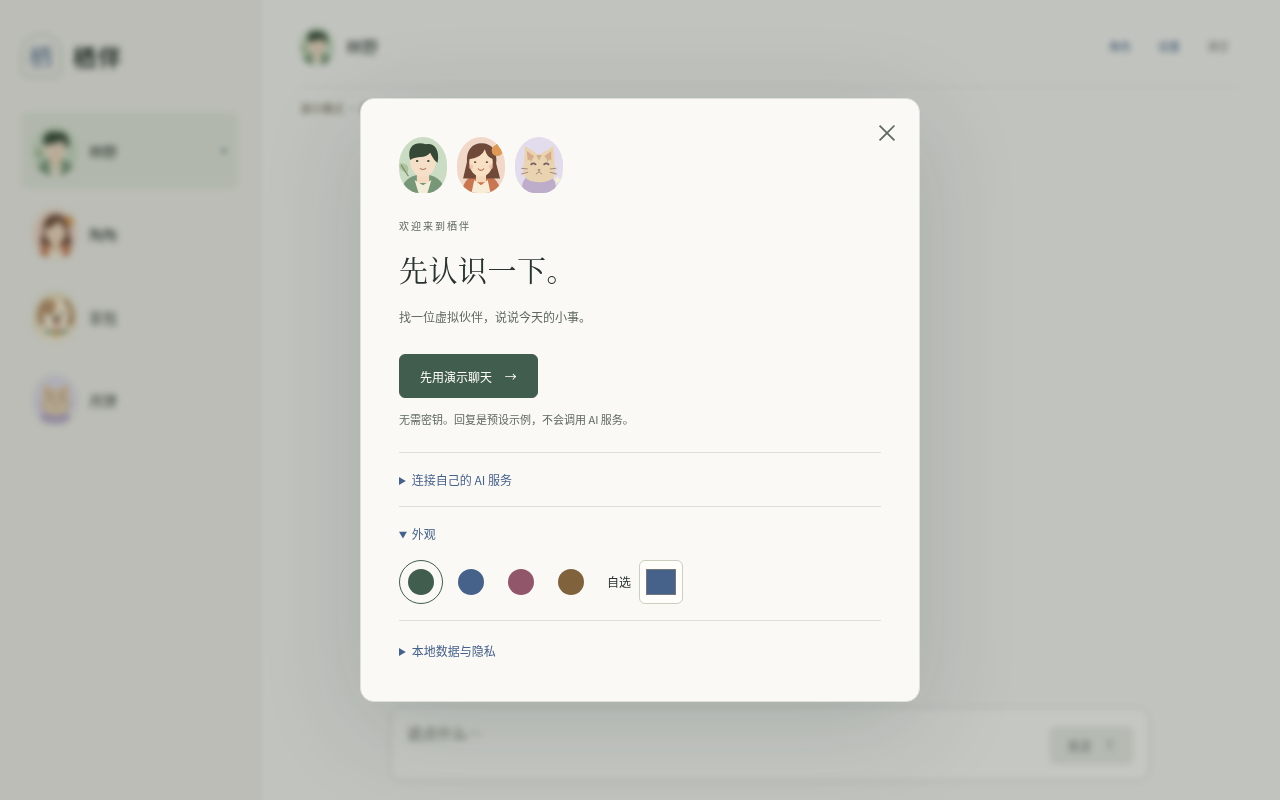
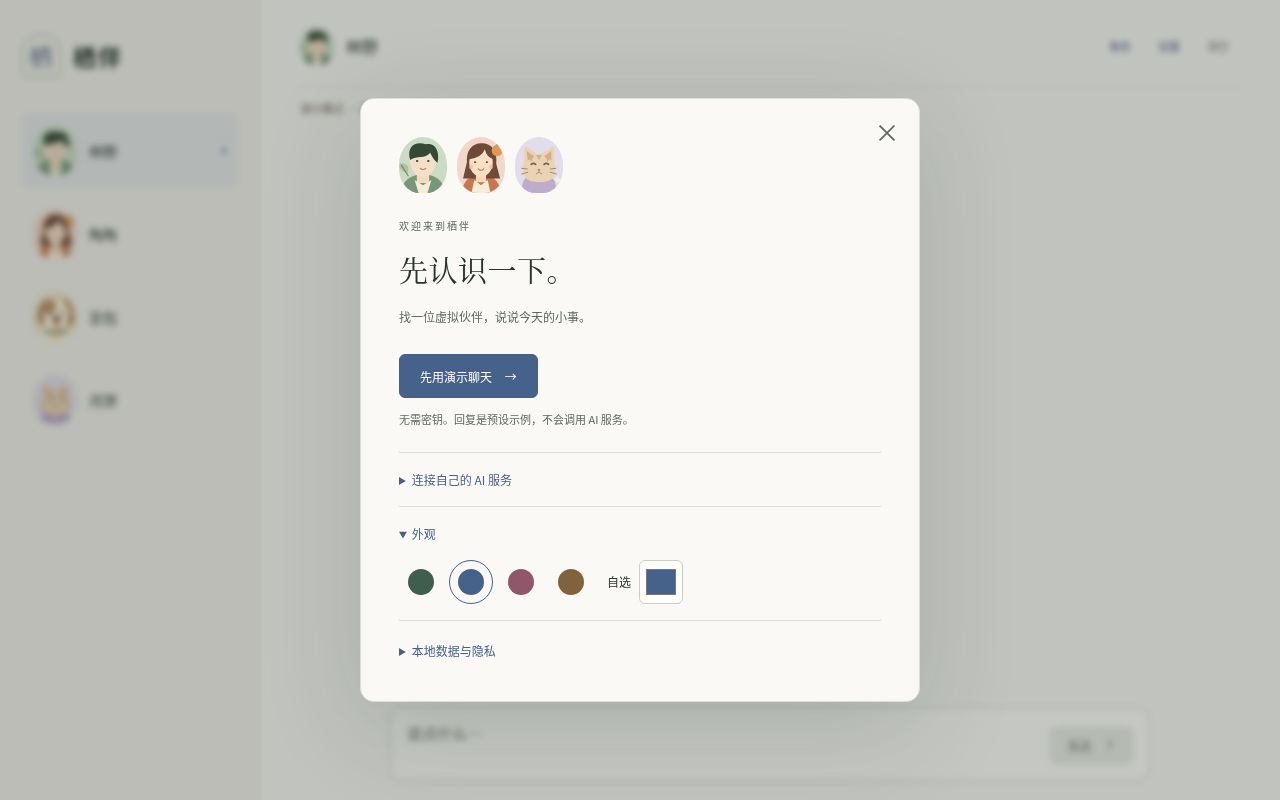
fix: initialize appearance within App presentation lifecycle

Changed region(s): [[0.3125, 0.4375, 0.4375, 0.5]]

diff --git a/src/App.tsx b/src/App.tsx
@@ -1,5 +1,5 @@
 import { Avatar } from "./Avatar";
-import { useEffect, useRef, useState, type FormEvent } from "react";
+import { useEffect, useLayoutEffect, useRef, useState, type FormEvent } from "react";
 import {
   characters,
   MAX_MESSAGE_LENGTH,
@@ -12,7 +12,7 @@ import { ConnectionPanel } from "./ConnectionPanel";
 import { AndroidConnectionPanel } from "./android/AndroidConnectionPanel";
 import { CharacterPicker } from "./CharacterPicker";
 import { ChatMessages } from "./ChatMessages";
-import { clearAppearance } from "./appearance";
+import { applyAccent, clearAppearance, storedAccent } from "./appearance";
 import {
   ChatError,
   sendMessage,
@@ -37,6 +37,7 @@ function loadSaved(): Conversations {
 }
 export function App() {
   const ConnectionSettings = window.qibanPlatform === "android" ? AndroidConnectionPanel : ConnectionPanel;
+  useLayoutEffect(() => { applyAccent(storedAccent()); }, []);
   const desktop = desktopBridge();
   const [companions, setCompanions] =
     useState<readonly Character[]>(characters);

diff --git a/src/main.tsx b/src/main.tsx
@@ -5,8 +5,6 @@ import "./styles.css";
 import { initializeAndroid } from "./android/bridge";
 import "./android/platform.css";
 initializeAndroid();
-import { applyAccent, storedAccent } from "./appearance";
-applyAccent(storedAccent());
 createRoot(document.getElementById("root")!).render(
   <React.StrictMode>
     <App />

diff --git a/docs/screenshots/appearance.md b/docs/screenshots/appearance.md
@@ -2,7 +2,7 @@
 
 This is a bounded follow-up to the accepted lean composition on `04bd44870ae8739fb9ae53961691f365c163a321`. Settings → 外观 contains four accent presets and a native color picker. Paper, body text, typography and layout remain unchanged. Light choices are darkened for readable controls; tinted selection and message surfaces are derived from the safe accent. Only six-digit hex colors and seven fixed CSS properties are accepted.
 
-The renderer stores versioned data under `qiban.appearance.v1` and applies it before React mounts. The preference survives reload and reopening a context with saved origin storage. Successful delete-all clears it before reload; a failed native wipe preserves it. Unavailable storage leaves the current selection usable and reports that it could not be saved.
+The renderer stores versioned data under `qiban.appearance.v1` and applies it in App's presentation lifecycle before the first paint, leaving the bootstrap entrypoint unchanged. The preference survives reload and reopening a context with saved origin storage. Successful delete-all clears it before reload; a failed native wipe preserves it. Unavailable storage leaves the current selection usable and reports that it could not be saved.
 
 Windows already uses the stable `qiban://app/index.html` origin. Android must retain a stable origin and enabled DOM storage. Any native wipe path that bypasses the renderer must also clear that origin's storage. No native bindings or platform files were changed in this follow-up.
 
